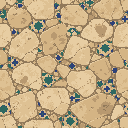
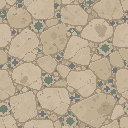
Caravan: Zahhak's palace floor toned down
The owner found it stood out too much: every colour pulled 45% of the way
to the stone's mean and its saturation cut to 60% (scripts/palace-floor.py),
the hex borders a matching grey-brown.

Claude-Session: https://claude.ai/code/session_01KdDdzeLYidCW6XHfZe5CDt

diff --git a/packages/games/silk-road-run/src/client/board/ground.ts b/packages/games/silk-road-run/src/client/board/ground.ts
@@ -280,8 +280,8 @@ LOOKS.cave = {
 LOOKS.palace = {
   ...LOOKS.salt!,
   ground: palaceFloorImage,
-  colour: '#dcc192',
-  border: '#5a4632',
+  colour: '#c0ab8f',
+  border: '#5c4f42',
   mountainGround: palaceFloorImage,
   dome: null,
 };

diff --git a/scripts/palace-floor.py b/scripts/palace-floor.py
@@ -5,7 +5,9 @@ floor"): a seamless tile cut to 128 pixels in 7 colours, as cave-floor.py
 cuts the cave's: five of the stone's creams and ochres found by k-means
 over it, and the glazed tiles' teal and cobalt kept apart, as so few pixels
 would be merged into the stone. Each art pixel is the colour most of its
-block is.
+block is. Then calmed (owner, 2026-10-29: it stood out too much): every
+colour pulled `CALM` of the way to the stone's mean, and its saturation cut
+to `SATURATION`, so the units and the grid stand out on it.
 
   python3 scripts/palace-floor.py picture.png packages/games/silk-road-run/src/client/tiles/palace-floor.png
 
@@ -20,6 +22,8 @@ SIZE = 128
 STONES = 5
 TEAL = (47, 104, 96)
 COBALT = (46, 66, 120)
+CALM = 0.45
+SATURATION = 0.6
 
 
 def kmeans(px: np.ndarray, k: int) -> np.ndarray:
@@ -46,5 +50,14 @@ for y in range(SIZE):
         blk = src[round(y * step) : round((y + 1) * step), round(x * step) : round((x + 1) * step)]
         img = Image.fromarray(blk.astype(np.uint8), 'RGB').quantize(palette=pal, dither=0)
         out[y, x] = palette[np.bincount(np.asarray(img).ravel()).argmax()]
+mean = np.array(palette[:STONES]).mean(0)
+calm = []
+for c in palette:
+    v = np.array(c) + (mean - np.array(c)) * CALM
+    grey = v.mean()
+    calm.append(tuple(int(round(x)) for x in grey + (v - grey) * SATURATION))
+for old, new in zip(palette, calm):
+    out[(out == old).all(2)] = new
+palette = calm
 Image.fromarray(out, 'RGB').save(sys.argv[2])
 print('palette', palette)

diff --git a/docs/plans/roguelike-tactics/art-direction.md b/docs/plans/roguelike-tactics/art-direction.md
@@ -1153,8 +1153,10 @@ portrait only, no text, no border.
 **Built from the owner's art (2026-10-29):** `tiles/palace-floor.png`,
 cut by `scripts/palace-floor.py` from ChatGPT's 1254-pixel picture of this
 prompt, which came back seamless: five of its stone creams and ochres by
-k-means and the tiles' teal and cobalt kept apart, 7 colours; the hex
-borders drawn darker than the grout (`#5a4632`). The prompt it came from:
+k-means and the tiles' teal and cobalt kept apart, 7 colours; then
+calmed (owner, 2026-10-29: it stood out too much), every colour pulled
+45% of the way to the stone's mean and its saturation cut to 60%; the hex
+borders a dark grey-brown (`#5c4f42`). The prompt it came from:
 
 Zahhak's palace (`palace`), Persia's boss fight, has only its floor: no
 dome, no mountains, no obstacles. Like the cave floor it is
